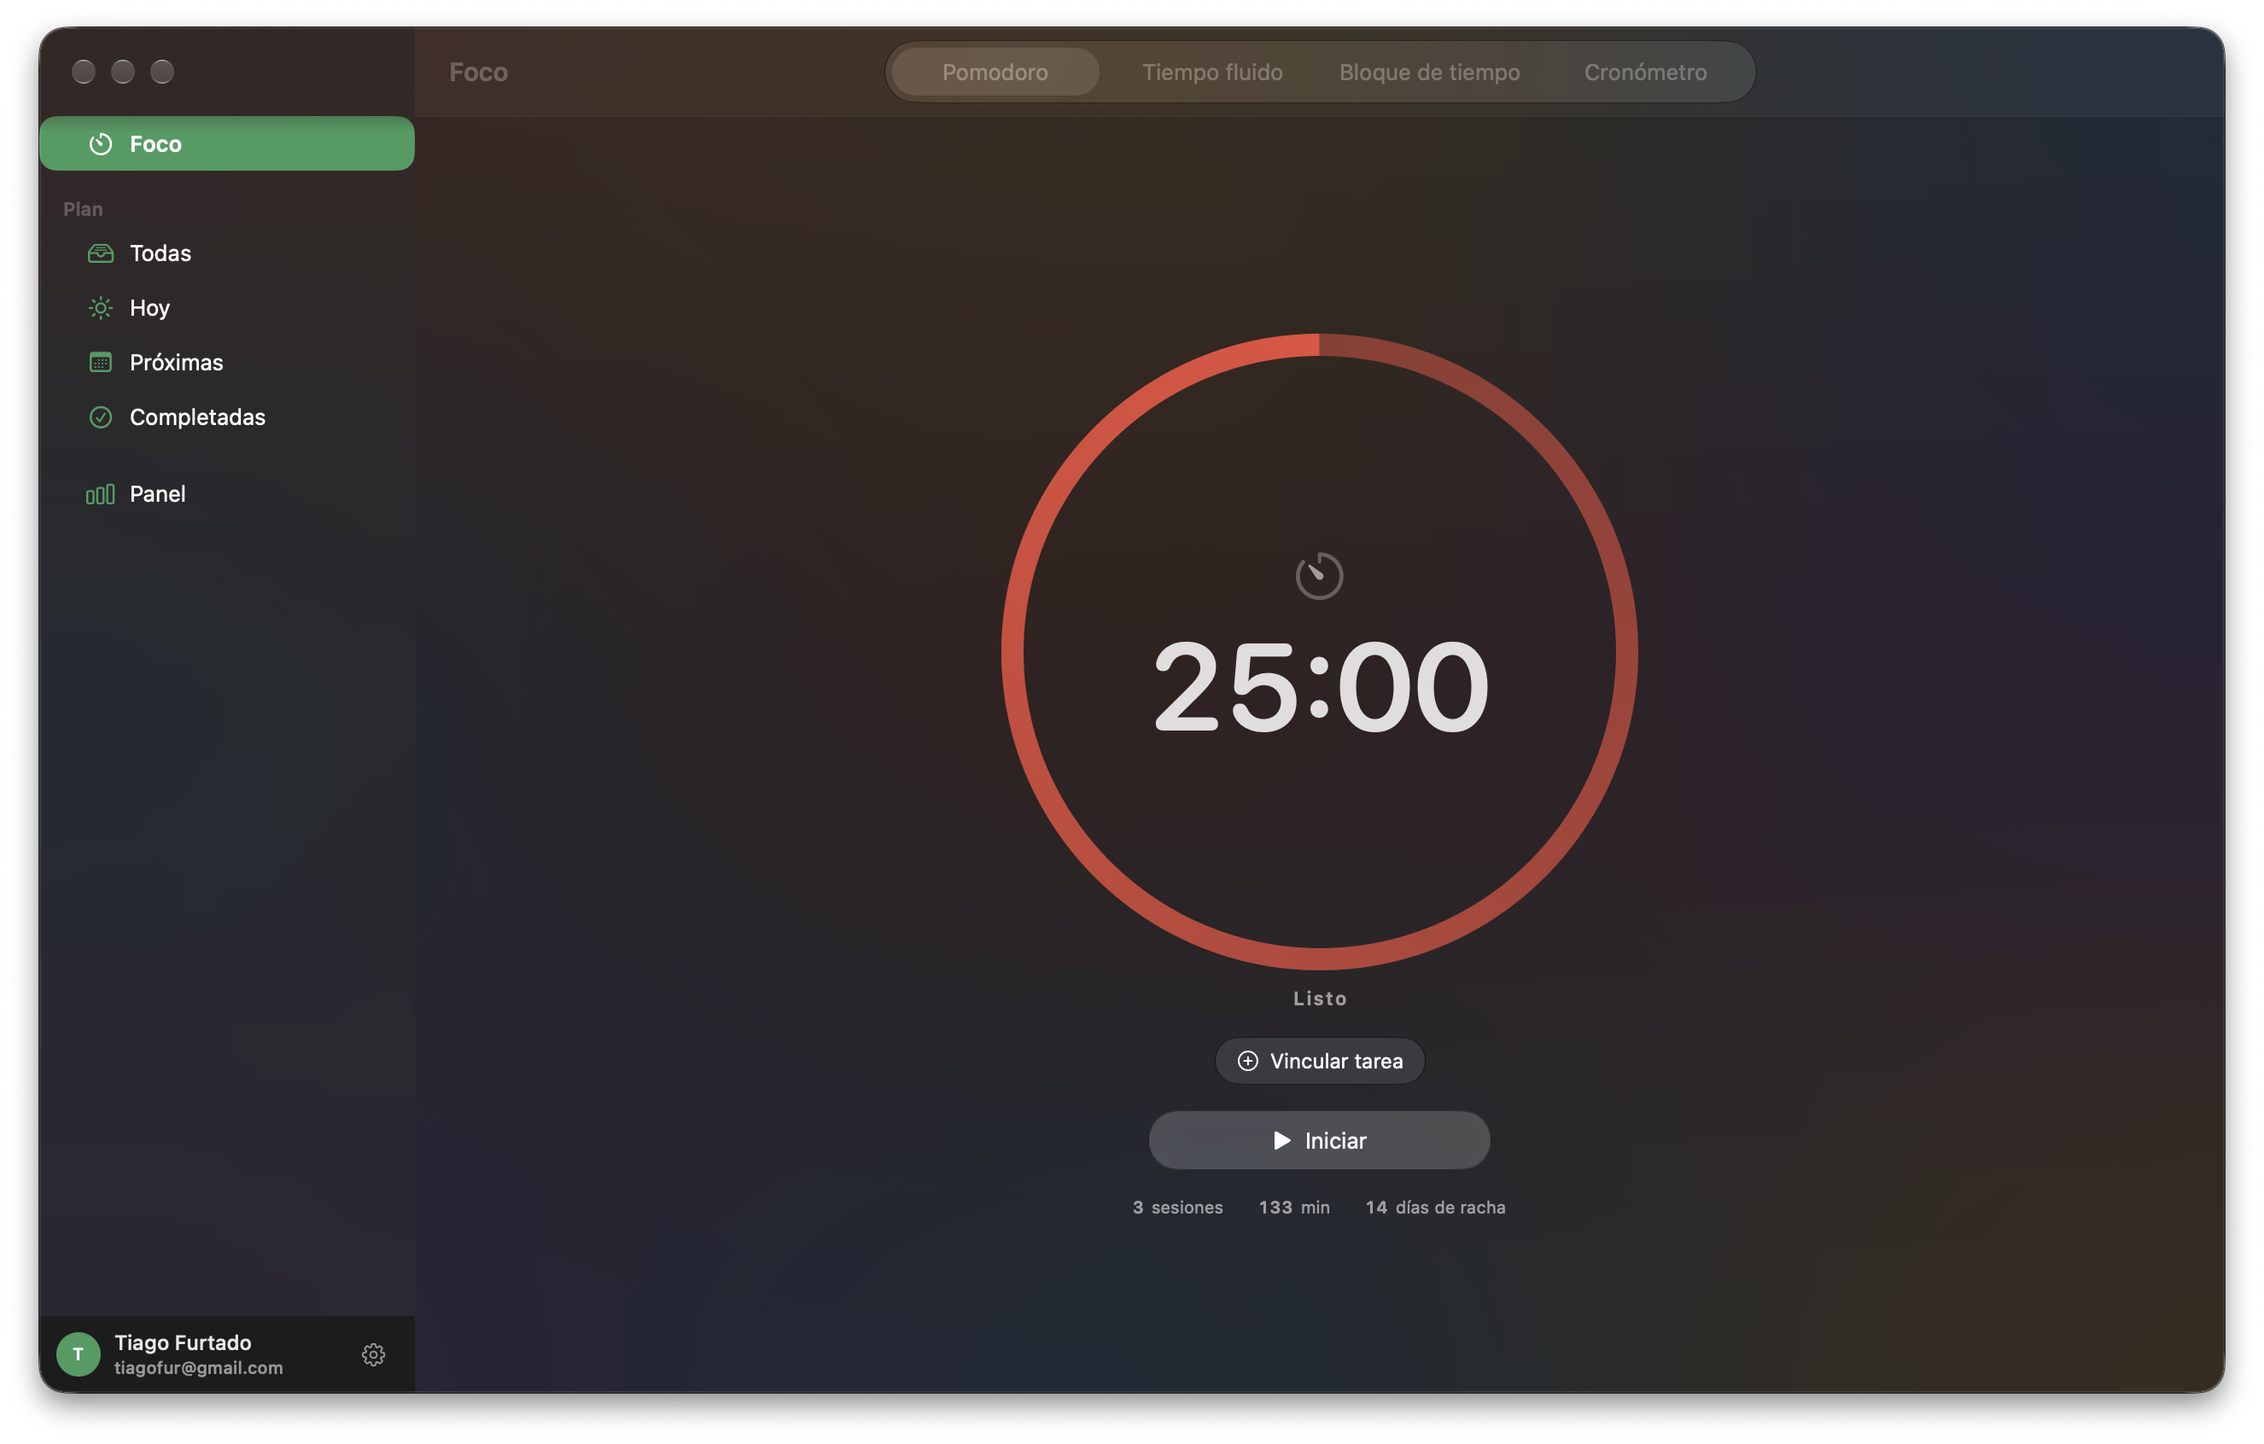
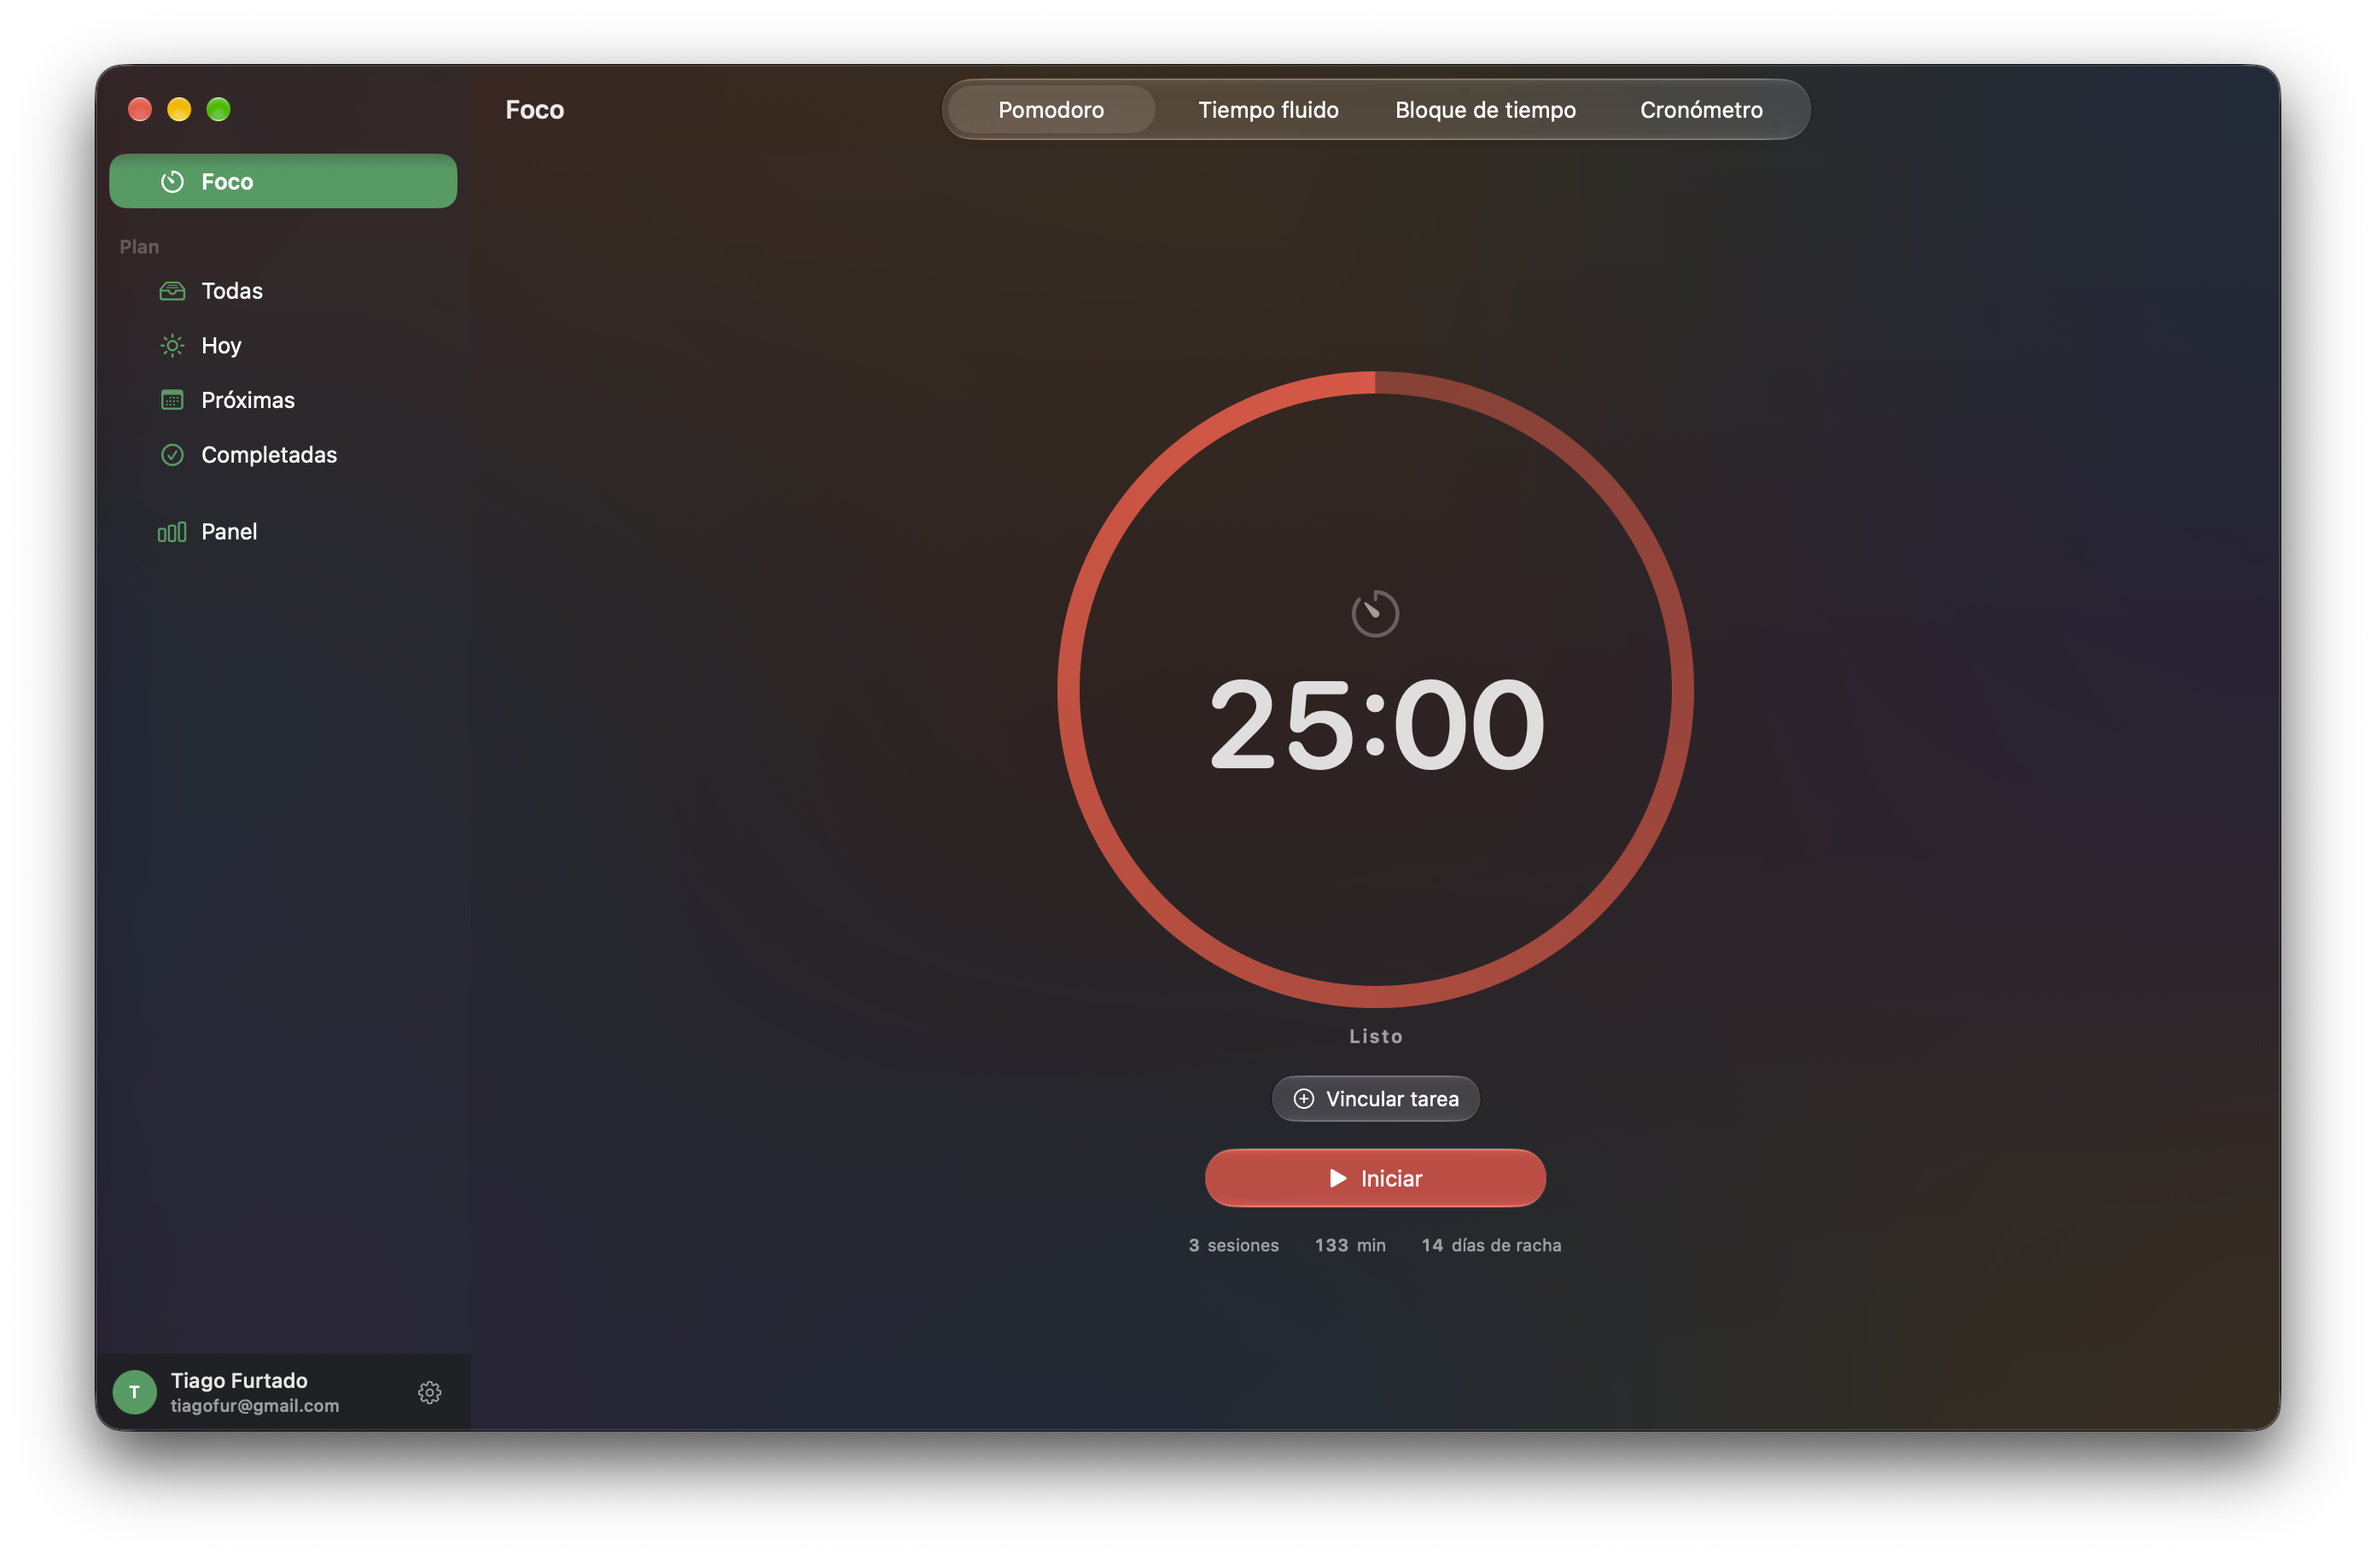
fix(mac): sidebar selection follows the Apple pattern — inset capsule, gray when unfocused
Music/Podcasts/TV study: the selection capsule carries a menu-to-button
inset on both sides, and when the window is not focused the capsule
settles into the system's unemphasized selection gray with primary
text — Apple never keeps the accent fill on an inactive window.

The brand-green capsule now insets 8pt per side inside the
row-background layer, and controlActiveState drives the fill (green
focused, system gray unfocused) plus the selected row's text and icon
colors. The forced-active environment override is gone.

Changed region(s): [[0.0, 0.0, 0.9894, 0.9835], [0.4329, 0.2151, 0.7421, 0.8605], [0.4638, 0.3073, 0.4947, 0.3381]]

diff --git a/ios/Mac/MacAppView.swift b/ios/Mac/MacAppView.swift
@@ -9,6 +9,7 @@ struct MacAppView: View {
 
     @Environment(\.appTheme) private var theme
     @Environment(\.openSettings) private var openSettings
+    @Environment(\.controlActiveState) private var controlActiveState
 
     private var activeTheme: AppTheme {
         AppTheme.named(store.settings.themeName)
@@ -140,10 +141,6 @@ struct MacAppView: View {
         // column's top area. Applied inside the split view — the system only
         // honors it on the sidebar content, not on the container.
         .modifier(SidebarToggleRemoval())
-        // The brand-green selection capsule must stay filled when the window
-        // is not key: List otherwise paints its inactive gray selection over
-        // the row background, leaving the accent capsule a ghost outline.
-        .environment(\.controlActiveState, .active)
         .navigationSplitViewColumnWidth(min: 200, ideal: 220, max: 280)
         .navigationTitle("Pepinillo")
         .safeAreaInset(edge: .bottom) {
@@ -156,6 +153,12 @@ struct MacAppView: View {
     /// icon+label; unselected rows carry the accent on their icons with
     /// primary text. Fixed row height so the capsule aligns edge-to-edge
     /// vertically with neighboring rows.
+    /// Music/Podcasts sidebar selection, adapted to the brand green: the
+    /// capsule is inset from the column edges (their ~8pt menu-to-button
+    /// padding), fills the row height with ~10pt radius, and follows the
+    /// system's active state — the brand green only while the window is
+    /// focused; unfocused it settles into the system's unemphasized
+    /// selection gray with primary text, exactly like Apple's apps.
     private func sidebarRow(
         _ title: String,
         systemImage: String,
@@ -165,36 +168,40 @@ struct MacAppView: View {
         HStack(spacing: 6) {
             Image(systemName: systemImage)
                 .font(.system(size: 13, weight: .medium))
-                .foregroundStyle(isSelected ? Color.white : Color.accentColor)
+                .foregroundStyle(rowIconColor(isSelected: isSelected))
                 .frame(width: 22)
                 .accessibilityHidden(true)
 
             Text(title)
                 .font(.system(size: 13, weight: isSelected ? .semibold : .regular))
-                .foregroundStyle(isSelected ? Color.white : Color.primary)
+                .foregroundStyle(rowTextColor(isSelected: isSelected))
                 .lineLimit(1)
         }
-        .padding(.horizontal, 9)
+        .padding(.horizontal, 18)
         .frame(minHeight: 30, alignment: .leading)
         .frame(maxWidth: .infinity, alignment: .leading)
         .contentShape(Rectangle())
         .tag(tag)
-        // The capsule lives in the row-background layer, the same layer the
-        // system paints its selection glass in, so the brand green fully
-        // replaces that layer instead of peeking out from behind a smaller
-        // in-content fill (the Music/Podcasts geometry: ~10pt radius, full
-        // column width, row-height capsule).
-        .listRowBackground(
-            Group {
-                if isSelected {
-                    RoundedRectangle(cornerRadius: 10, style: .continuous)
-                        .fill(Color.accentColor)
-                } else {
-                    Color.clear
-                }
-            }
-        )
+        // The capsule lives in the row-background layer — the same layer the
+        // system paints its selection glass in — so it replaces that layer
+        // outright instead of peeking out from behind a smaller in-content
+        // fill. The horizontal padding is the menu-to-button inset.
+        .listRowBackground(SidebarRowBackground(isSelected: isSelected))
         .listRowInsets(EdgeInsets(top: 0, leading: 0, bottom: 0, trailing: 0))
+    }
+
+    private func rowIconColor(isSelected: Bool) -> Color {
+        guard isSelected else { return Color.accentColor }
+        return isActiveWindow ? Color.white : Color.primary
+    }
+
+    private func rowTextColor(isSelected: Bool) -> Color {
+        guard isSelected else { return Color.primary }
+        return isActiveWindow ? Color.white : Color.primary
+    }
+
+    private var isActiveWindow: Bool {
+        controlActiveState != .inactive
     }
 
     /// Bottom-of-sidebar account row + settings gear, the common modern Mac
@@ -416,5 +423,33 @@ private struct SidebarToggleRemoval: ViewModifier {
         } else {
             content
         }
+    }
+}
+
+/// The sidebar selection capsule, drawn in the row-background layer so it
+/// replaces the system's selection glass outright. Brand green while the
+/// window is focused; the system's unemphasized selection gray once it is
+/// not — the Music/Podcasts behavior. The horizontal padding is the
+/// menu-to-button inset their sidebars carry.
+private struct SidebarRowBackground: View {
+    let isSelected: Bool
+    @Environment(\.controlActiveState) private var controlActiveState
+
+    var body: some View {
+        Group {
+            if isSelected {
+                RoundedRectangle(cornerRadius: 10, style: .continuous)
+                    .fill(fillColor)
+                    .padding(.horizontal, 8)
+            } else {
+                Color.clear
+            }
+        }
+    }
+
+    private var fillColor: Color {
+        controlActiveState == .inactive
+            ? Color(nsColor: .unemphasizedSelectedContentBackgroundColor)
+            : Color.accentColor
     }
 }
